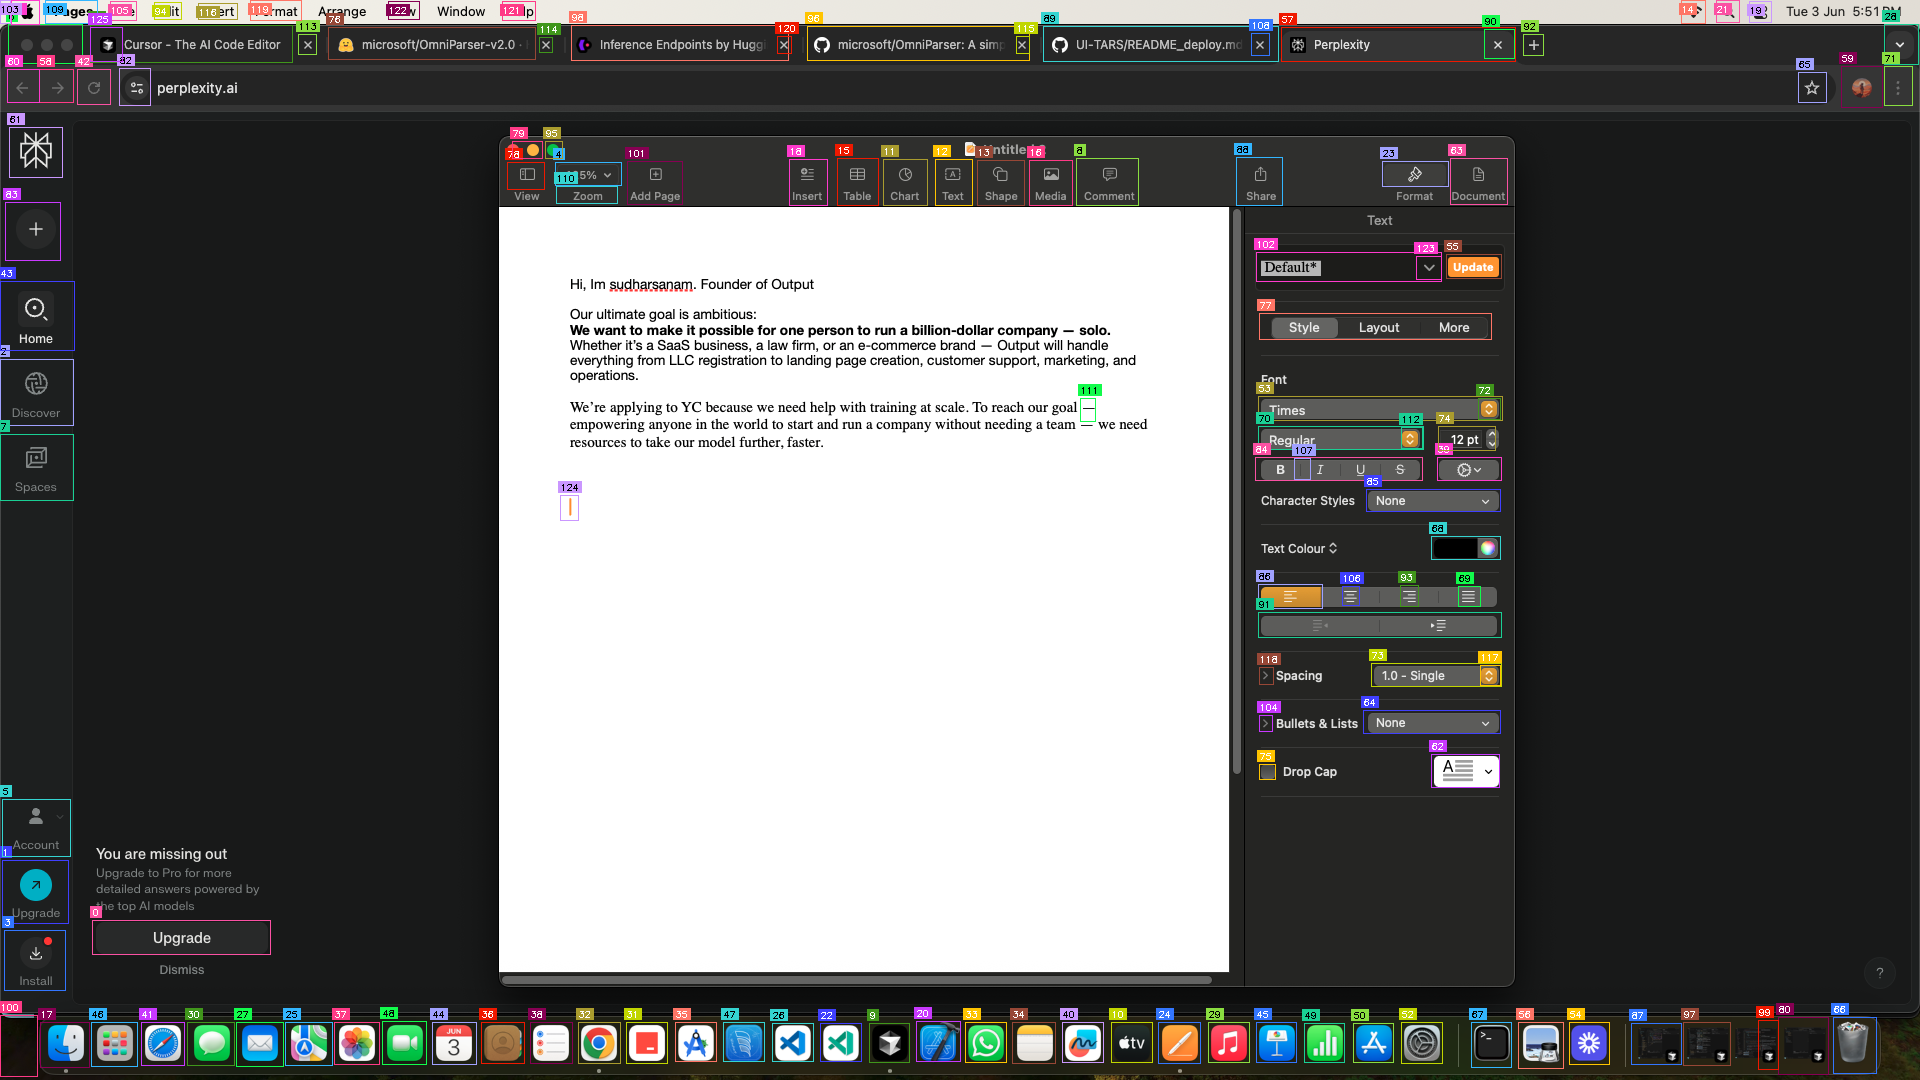
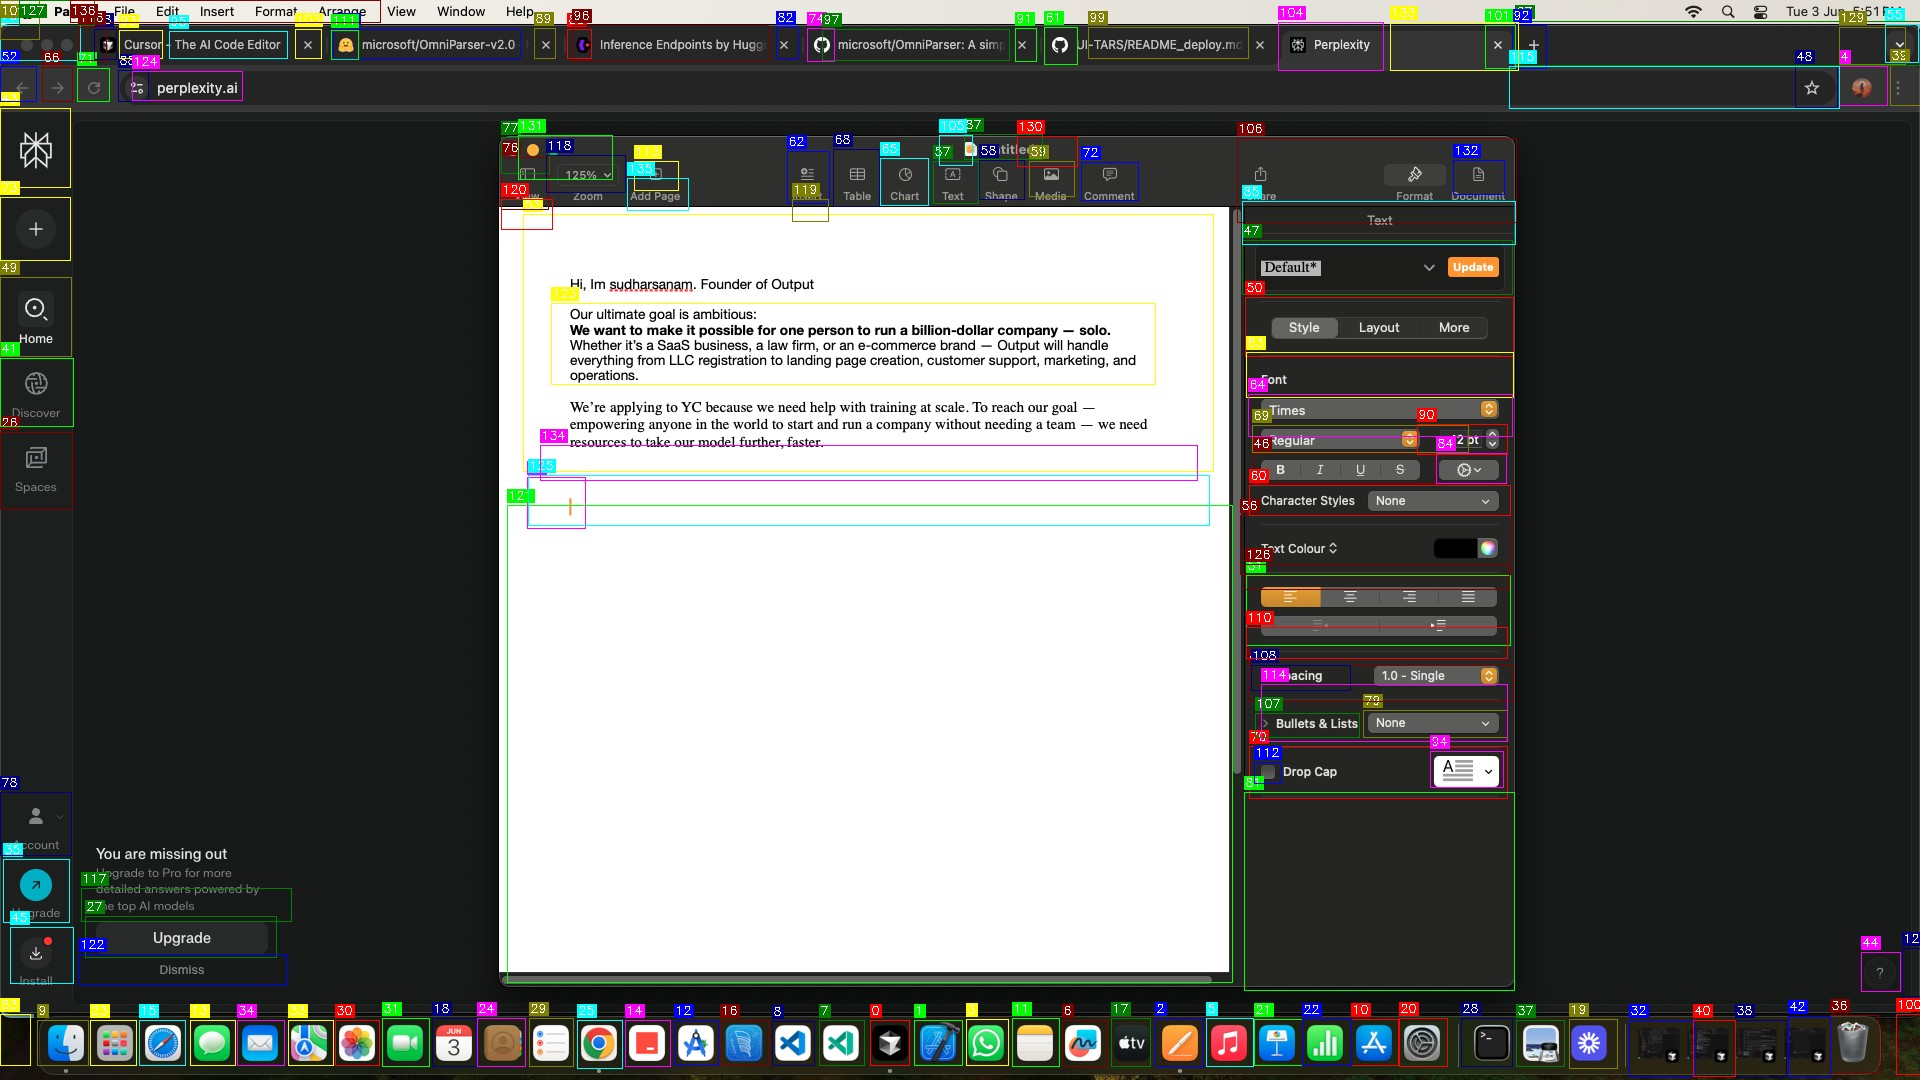
🎯 Add PRO endpoint: /detect_elements_pro - Professional quality + speed, accurate scaling, high contrast annotations

diff --git a/app.py b/app.py
@@ -227,6 +227,210 @@ def detect_fast(
     )
 
 @torch.inference_mode()
+def detect_fast_pro(
+    image_input,
+    box_threshold,
+    iou_threshold,
+    imgsz,
+) -> Optional[DetectResponse]:
+    """HYBRID APPROACH: Professional quality + optimized speed"""
+    
+    import cv2
+    import numpy as np
+    import time
+    import supervision as sv
+    from supervision.draw.color import ColorPalette
+    
+    start_time = time.time()
+    
+    # ACCURACY FIX 1: Proper image handling without quality loss
+    original_width, original_height = image_input.size
+    
+    # SPEED OPTIMIZATION: Smart sizing (not too aggressive to maintain accuracy)
+    # Use 896px instead of 640px for better accuracy vs speed balance
+    target_size = min(896, imgsz)
+    
+    # Calculate proper scaling
+    scale = min(target_size / original_width, target_size / original_height)
+    
+    # Only resize if significantly larger (avoid unnecessary processing)
+    if scale < 0.8:
+        new_width = int(original_width * scale)
+        new_height = int(original_height * scale)
+        # High quality resize
+        image_resized = image_input.resize((new_width, new_height), Image.Resampling.LANCZOS)
+        image_save_path = 'imgs/fast_pro_resized.png'
+        image_resized.save(image_save_path)
+        scale_factor = scale
+    else:
+        # Use original size for small images
+        image_save_path = 'imgs/fast_pro_original.png'
+        image_input.save(image_save_path)
+        scale_factor = 1.0
+    
+    # ACCURACY FIX 2: Optimized thresholds (not too aggressive)
+    optimized_threshold = max(0.02, box_threshold)  # Not ultra-low to avoid noise
+    optimized_iou = min(0.2, iou_threshold)  # Balanced filtering
+    
+    # SPEED OPTIMIZATION: Efficient YOLO inference
+    from ultralytics import YOLO
+    
+    inference_start = time.time()
+    results = yolo_model(
+        image_save_path,
+        imgsz=target_size,
+        conf=optimized_threshold,
+        iou=optimized_iou,
+        verbose=False,
+        device='cuda' if torch.cuda.is_available() else 'cpu',
+        half=True,  # FP16 for speed
+    )
+    inference_time = time.time() - inference_start
+    print(f"🔥 YOLO inference (PRO): {inference_time:.3f}s")
+    
+    # ACCURACY FIX 3: Precise coordinate scaling
+    boxes = []
+    confidences = []
+    
+    if len(results) > 0 and results[0].boxes is not None:
+        boxes_tensor = results[0].boxes.xyxy.cpu()
+        conf_tensor = results[0].boxes.conf.cpu()
+        
+        # CRITICAL: Proper coordinate scaling back to original image
+        for box in boxes_tensor:
+            x1, y1, x2, y2 = box.tolist()
+            
+            # Scale back to original coordinates with precision
+            if scale_factor != 1.0:
+                x1_orig = x1 / scale_factor
+                y1_orig = y1 / scale_factor
+                x2_orig = x2 / scale_factor
+                y2_orig = y2 / scale_factor
+            else:
+                x1_orig, y1_orig, x2_orig, y2_orig = x1, y1, x2, y2
+            
+            # Ensure coordinates are within image bounds
+            x1_orig = max(0, min(x1_orig, original_width))
+            y1_orig = max(0, min(y1_orig, original_height))
+            x2_orig = max(0, min(x2_orig, original_width))
+            y2_orig = max(0, min(y2_orig, original_height))
+            
+            boxes.append([x1_orig, y1_orig, x2_orig, y2_orig])
+        
+        confidences = conf_tensor.tolist()
+    
+    # QUALITY FIX 4: Professional annotation system (like normal processing)
+    annotation_start = time.time()
+    
+    # Use original image for annotation
+    image_np = np.array(image_input)
+    if len(image_np.shape) == 3:
+        image_cv = cv2.cvtColor(image_np, cv2.COLOR_RGB2BGR)
+        image_cv = cv2.cvtColor(image_cv, cv2.COLOR_BGR2RGB)
+    
+    if boxes:
+        # QUALITY FIX 5: Use professional supervision library like normal processing
+        xyxy = np.array(boxes)
+        detections = sv.Detections(xyxy=xyxy)
+        
+        # Calculate scaling for text/thickness (same as normal processing)
+        box_overlay_ratio = original_width / 3200
+        
+        # HIGH CONTRAST COLOR PALETTE for better readability
+        colors = ColorPalette.DEFAULT
+        
+        # Professional annotation parameters
+        font = cv2.FONT_HERSHEY_SIMPLEX
+        text_scale = max(0.6 * box_overlay_ratio, 0.4)  # Larger text
+        text_thickness = max(int(2 * box_overlay_ratio), 1)
+        box_thickness = max(int(2 * box_overlay_ratio), 2)
+        text_padding = max(int(4 * box_overlay_ratio), 3)
+        
+        for i, (box, conf) in enumerate(zip(boxes, confidences)):
+            x1, y1, x2, y2 = map(int, box)
+            
+            # READABILITY FIX: High contrast color system
+            color = colors.by_idx(i)
+            color_rgb = color.as_rgb()
+            color_bgr = (color_rgb[2], color_rgb[1], color_rgb[0])
+            
+            # Draw professional box
+            cv2.rectangle(image_cv, (x1, y1), (x2, y2), color_bgr, box_thickness)
+            
+            # READABILITY FIX: Smart label positioning and contrast
+            label = str(i)
+            
+            # Calculate text size
+            (text_width, text_height), baseline = cv2.getTextSize(
+                label, font, text_scale, text_thickness
+            )
+            
+            # Smart positioning (avoid overlap with image edges)
+            label_x = x1
+            label_y = y1 - text_padding
+            
+            # Adjust if text would go outside image
+            if label_y - text_height < 0:
+                label_y = y1 + text_height + text_padding
+            if label_x + text_width > original_width:
+                label_x = original_width - text_width - text_padding
+            if label_x < 0:
+                label_x = text_padding
+            
+            # CONTRAST FIX: High contrast background
+            bg_x1 = label_x - text_padding
+            bg_y1 = label_y - text_height - text_padding
+            bg_x2 = label_x + text_width + text_padding
+            bg_y2 = label_y + text_padding
+            
+            # Draw text background with same color as box
+            cv2.rectangle(image_cv, (bg_x1, bg_y1), (bg_x2, bg_y2), color_bgr, cv2.FILLED)
+            
+            # CONTRAST FIX: Auto white/black text for maximum readability
+            luminance = 0.299 * color_rgb[0] + 0.587 * color_rgb[1] + 0.114 * color_rgb[2]
+            text_color = (0, 0, 0) if luminance > 140 else (255, 255, 255)
+            
+            # Draw high-contrast text
+            cv2.putText(
+                image_cv, label, (label_x, label_y), 
+                font, text_scale, text_color, text_thickness, cv2.LINE_AA
+            )
+    
+    annotation_time = time.time() - annotation_start
+    print(f"🎨 Professional annotation: {annotation_time:.3f}s")
+    
+    # SPEED OPTIMIZATION: Balanced encoding (PNG for quality, optimized compression)
+    encoding_start = time.time()
+    
+    pil_image = Image.fromarray(image_cv)
+    buffered = io.BytesIO()
+    # Use PNG with moderate compression for quality balance
+    pil_image.save(buffered, format="PNG", optimize=True, compress_level=3)
+    img_str = base64.b64encode(buffered.getvalue()).decode("utf-8")
+    
+    encoding_time = time.time() - encoding_start
+    print(f"📦 Encoding: {encoding_time:.3f}s")
+    
+    # Create precise coordinates list
+    coordinates_list = []
+    for i, (box, conf) in enumerate(zip(boxes, confidences)):
+        coordinates_list.append({
+            "id": i,
+            "bbox": [float(box[0]), float(box[1]), float(box[2]), float(box[3])],
+            "confidence": float(conf)
+        })
+    
+    total_time = time.time() - start_time
+    print(f"🚀 TOTAL TIME (PRO): {total_time:.3f}s")
+    print(f"🎯 DETECTED: {len(boxes)} elements")
+    print(f"📏 SCALE FACTOR: {scale_factor:.3f}")
+    
+    return DetectResponse(
+        image=img_str,
+        coordinates=json.dumps(coordinates_list)
+    )
+
+@torch.inference_mode()
 # @torch.autocast(device_type="cuda", dtype=torch.bfloat16)
 def process(
     image_input,
@@ -298,6 +502,39 @@ async def detect_elements(
         raise HTTPException(status_code=400, detail="Invalid image file")
 
     response = detect_fast(image_input, box_threshold, iou_threshold, imgsz)
+    return response
+
+@app.post("/detect_elements_pro", response_model=DetectResponse)
+async def detect_elements_pro(
+    image_file: UploadFile = File(...),
+    box_threshold: Annotated[float, Query(ge=0.01, le=1.0)] = 0.05,  # Balanced threshold
+    iou_threshold: Annotated[float, Query(ge=0.01, le=1.0)] = 0.15,  # Balanced filtering
+    imgsz: Annotated[int, Query(ge=640, le=3200)] = 896,  # Sweet spot for speed vs accuracy
+):
+    """
+    🎯 PROFESSIONAL FAST: High-quality annotations + good speed
+    
+    Professional approach for production-ready GUI automation:
+    - ✅ Accurate box positioning (proper scaling)
+    - ✅ Professional annotations (high contrast, readable)
+    - ✅ Smart image sizing (896px for speed/accuracy balance)
+    - ✅ Quality color palette with auto contrast
+    - ✅ Precise coordinate mapping
+    - ✅ Beautiful results like normal processing but faster
+    
+    Args:
+        image_file (UploadFile): The image file to process
+        box_threshold (float): Confidence threshold, default=0.05 (balanced detection)
+        iou_threshold (float): Overlap threshold, default=0.15 (balanced filtering)  
+        imgsz (int): Max inference size, default=896 (speed/accuracy sweet spot)
+    """
+    try:
+        contents = await image_file.read()
+        image_input = Image.open(io.BytesIO(contents)).convert("RGB")
+    except Exception as e:
+        raise HTTPException(status_code=400, detail="Invalid image file")
+
+    response = detect_fast_pro(image_input, box_threshold, iou_threshold, imgsz)
     return response
 
 @app.post("/process_image", response_model=ProcessResponse)
